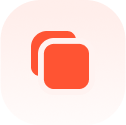
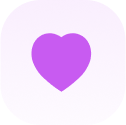
Value cards changed

Changed region(s): [[0.2381, 0.24, 0.7381, 0.744]]

diff --git a/src/UI/MainPage/OurValues.jsx b/src/UI/MainPage/OurValues.jsx
@@ -1,6 +1,10 @@
 import ValueCard from "../Card/ValueCard";
 
-// import Heart from "../../assets/heart.png";
+import Convo from "../../assets/convo.png";
+import Strike from "../../assets/strike.png";
+import Heart from "../../assets/heart.png";
+import Diamond from "../../assets/diamond.png";
+import Human from "../../assets/human.png";
 
 const OurValues = () => {
   return (
@@ -20,38 +24,38 @@ const OurValues = () => {
       <div className={`mt-[100px]`}>
         <div className={`flex flex-row gap-[60px]`}>
           <ValueCard
-            // image={Heart}
+            image={Convo}
             altTitle={`Collaboration`}
             title={`Collaboration`}
             description={`We actively encourage networking, knowledge-sharing, and mentorship to enhance professional growth of women in surgery.`}
           />
           <ValueCard
-            // image={Heart}
-            altTitle={`Collaboration`}
-            title={`Collaboration`}
-            description={`We actively encourage networking, knowledge-sharing, and mentorship to enhance professional growth of women in surgery.`}
+            image={Strike}
+            altTitle={`Empowerment`}
+            title={`Empowerment`}
+            description={`We promote self-confidence, leadership development, and the cultivation of essential skills to drive positive change in the field of surgery.`}
           />
           <ValueCard
-            // image={Heart}
-            altTitle={`Collaboration`}
-            title={`Collaboration`}
-            description={`We actively encourage networking, knowledge-sharing, and mentorship to enhance professional growth of women in surgery.`}
+            image={Heart}
+            altTitle={`Equality`}
+            title={`Equality`}
+            description={`We believe in equal opportunities and recognition for all women surgeons, promoting fairness and inclusivity in all aspects of the surgical profession.`}
           />
         </div>
         <div
           className={`flex flex-row justify-center items-center gap-[60px] mt-[60px] mb-[180px]`}
         >
           <ValueCard
-            // image={Heart}
-            altTitle={`Collaboration`}
-            title={`Collaboration`}
-            description={`We actively encourage networking, knowledge-sharing, and mentorship to enhance professional growth of women in surgery.`}
+            image={Diamond}
+            altTitle={`Excellence`}
+            title={`Excellence`}
+            description={`We inspire and recognize outstanding achievements among women surgeons, promoting a culture of excellence and improvement.`}
           />
           <ValueCard
-            // image={Heart}
-            altTitle={`Collaboration`}
-            title={`Collaboration`}
-            description={`We actively encourage networking, knowledge-sharing, and mentorship to enhance professional growth of women in surgery.`}
+            image={Human}
+            altTitle={`Diversity`}
+            title={`Diversity`}
+            description={`We champion inclusivity across all backgrounds, cultures, and perspectives, fostering an environment that values and respects individual differences.`}
           />
         </div>
       </div>
